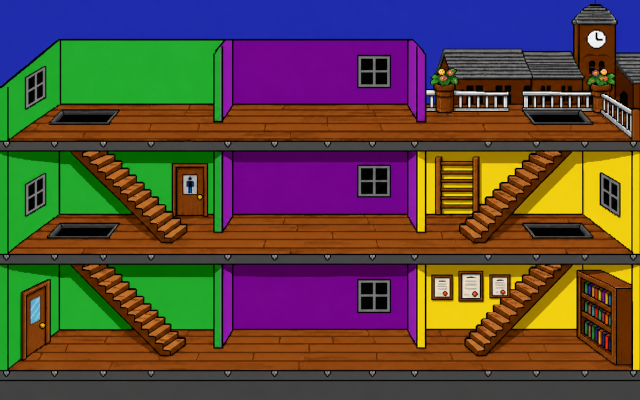
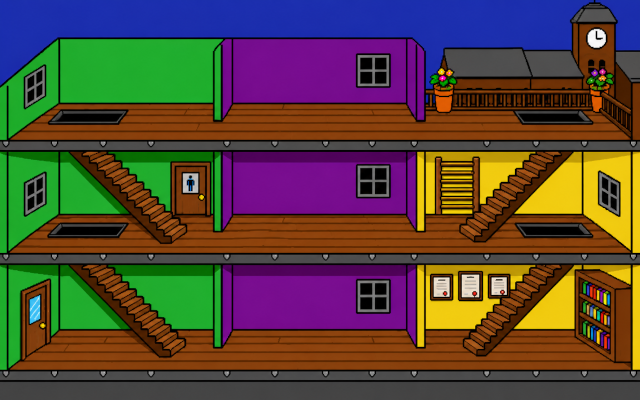
feat: polish visivo completo — outline oggetti + sfondo nuovo (v0.8.4)
Oggetti ridisegnati con bordi coerenti allo stile outline:
- Lavagne: superficie #075b07, strisce #2c832c solido
- Banchi: bordo #2c1800 (1px intorno al piano)
- Pallone L4: bordo + strisce #6b2200
- Libro L6: bordi verticali e orizzontali #3a1000
- Campanella: ridisegnata come triangolo rosso con batacchio
- Lavandino: outline #666 attorno al bacino
- Campanella (bell): triangolo rosso #cc1100 con bordo #880a00
- Secchi L8: bordo verde scuro #0d4d0d su lati e fondo (sui pixel esistenti)

Sfondo bg-640.png aggiornato: rimossi gradienti, outline architettura rafforzato
Cartaccia L5: traiettoria alzata di 5px (by-3)
Bump versione 0.8.4

diff --git a/js/draw.js b/js/draw.js
@@ -54,35 +54,39 @@ function drawBoards() {
 
 function drawBell() {
   const bx = BELL.x, by = BELL.y;
-  const sx = BELL.ringing ? Math.round(Math.sin(frame * 0.6) * 2) : 0;
-  const gold = BELL.ringing ? '#FFE000' : C.bell;
+  const sw = BELL.ringing ? Math.round(Math.sin(frame * 0.6) * 3) : 0;
+  const red  = BELL.ringing ? '#ff2200' : '#cc1100';
+  const dark = '#880a00';
 
-  ctx.fillStyle = C.dgray;
-  ctx.fillRect(bx+1, by, 2, 1);
+  // Outline pass
+  ctx.fillStyle = dark;
+  ctx.fillRect(bx+2+sw, by,   4, 1);  // top border
+  ctx.fillRect(bx+2+sw, by+1, 4, 1);  // tip outline
+  ctx.fillRect(bx+1+sw, by+2, 6, 1);  // row2 outline
+  ctx.fillRect(bx+1+sw, by+3, 6, 1);  // base outline (6px)
+  ctx.fillRect(bx+1+sw, by+4, 6, 1);  // bottom border
 
-  ctx.fillStyle = gold;
-  ctx.fillRect(bx+0+sx, by+1, 4, 1);
-  ctx.fillRect(bx-1+sx, by+2, 6, 2);
-  ctx.fillRect(bx-1+sx, by+4, 7, 1);
+  // Red fill (3 righe: 2→4→6px)
+  ctx.fillStyle = red;
+  ctx.fillRect(bx+3+sw, by+1, 2, 1);  // tip:  2 px
+  ctx.fillRect(bx+2+sw, by+2, 4, 1);  // row2: 4 px
+  ctx.fillRect(bx+2+sw, by+3, 4, 1);  // base: 4 px (stessa larghezza, no flare)
 
-  ctx.fillStyle = 'rgba(255,255,200,0.6)';
-  ctx.fillRect(bx+1+sx, by+2, 1, 1);
-
-  ctx.fillStyle = C.brown;
-  ctx.fillRect(bx+2+sx, by+5, 1, 1);
-  ctx.fillRect(bx+1+sx, by+6, 2, 1);
+  // Clapper (batacchio) — corto
+  ctx.fillStyle = dark;
+  ctx.fillRect(bx+3+sw, by+5, 2, 1);  // ball
 
   if ((allBoards || allBags || allMachines || allBall || allStudents || allBooks) && !BELL.done) {
     const pulse = 0.12 + 0.08 * Math.sin(frame * 0.15);
     ctx.fillStyle = 'rgba(255,215,0,' + pulse + ')';
-    ctx.beginPath(); ctx.arc(bx+2, by+3, 6, 0, Math.PI*2); ctx.fill();
+    ctx.beginPath(); ctx.arc(bx+4, by+2, 7, 0, Math.PI*2); ctx.fill();
   }
 
   if (BELL.ringing) {
     for (let i = 1; i <= 3; i++) {
       ctx.strokeStyle = 'rgba(255,215,0,' + (0.6 - i*0.15) + ')';
       ctx.lineWidth = 1;
-      ctx.beginPath(); ctx.arc(bx+2, by+3, 3+i*2, 0, Math.PI*2); ctx.stroke();
+      ctx.beginPath(); ctx.arc(bx+4, by+2, 4+i*3, 0, Math.PI*2); ctx.stroke();
     }
   }
 }
@@ -103,9 +107,12 @@ function drawGymBall() {
     ctx.fillStyle = C.yellow;           ctx.fillRect(bx-1, by-5, Math.round(11 * pct), 3);
   }
   // Basketball
+  ctx.fillStyle = '#6b2200';
+  ctx.fillRect(bx+1, by-1, 7, 1); ctx.fillRect(bx+1, by+9, 7, 1); // top/bottom
+  ctx.fillRect(bx-1, by+1, 1, 7); ctx.fillRect(bx+9, by+1, 1, 7); // left/right
   ctx.fillStyle = '#CC6600';
   ctx.fillRect(bx+1, by, 7, 9); ctx.fillRect(bx, by+1, 9, 7);
-  ctx.fillStyle = '#993300';
+  ctx.fillStyle = '#6b2200';
   ctx.fillRect(bx+4, by, 1, 9); ctx.fillRect(bx, by+4, 9, 1);
   ctx.fillStyle = 'rgba(255,200,100,0.5)'; ctx.fillRect(bx+1, by+1, 2, 2);
   if (!allBall) {
@@ -127,7 +134,10 @@ function drawBookcase() {
   if (bookcase.dropped) {
     // Open book lying flat on the floor (two pages + spine)
     const fx = bx + bookcase.fallDx, fy = by + bookcase.fallDy;
-    ctx.fillStyle = '#8B3000'; ctx.fillRect(fx,    fy,   18, 1); // binding top
+    ctx.fillStyle = '#3a1000';
+    ctx.fillRect(fx-1, fy, 1, 9); ctx.fillRect(fx+18, fy, 1, 9); // vertical borders
+    ctx.fillRect(fx-1, fy+9, 20, 1);                               // bottom border
+    ctx.fillStyle = '#3a1000'; ctx.fillRect(fx,    fy,   18, 1); // binding top
     ctx.fillStyle = '#F5E6C0'; ctx.fillRect(fx,    fy+1,  7, 8); // left page
     ctx.fillStyle = '#F5E6C0'; ctx.fillRect(fx+11, fy+1,  7, 8); // right page
     ctx.fillStyle = '#6B2200'; ctx.fillRect(fx+7,  fy,    4, 9); // spine
@@ -355,6 +365,12 @@ function drawBins() {
     // Body
     ctx.fillStyle = '#228B22'; ctx.fillRect(bx, by-11, 10, 11);
     ctx.fillStyle = '#1a6e1a'; ctx.fillRect(bx, by-11, 1, 11); // left shadow
+    // Dark green border (overwrite existing edge pixels, no external expansion)
+    ctx.fillStyle = '#0d4d0d';
+    ctx.fillRect(bx,   by-14, 1,  14); // left
+    ctx.fillRect(bx+9, by-14, 1,  14); // right
+    ctx.fillRect(bx,   by-1,  10,  1); // bottom
+
     // Triangle (vertex up) as recycle symbol
     ctx.fillStyle = 'rgba(255,255,255,0.75)';
     ctx.fillRect(bx+4, by-9, 2, 1); // top vertex
@@ -424,6 +440,7 @@ function drawSink() {
   ctx.fillStyle = '#aaa'; ctx.fillRect(bx+4, by-10, 1, 1);
 
   // Sink basin
+  ctx.fillStyle = '#666'; ctx.fillRect(bx-1, by-9, 14, 10);
   ctx.fillStyle = '#b0b0b0'; ctx.fillRect(bx,   by-8, 12, 8);
   ctx.fillStyle = '#d8d8d8'; ctx.fillRect(bx+1, by-7, 10, 6);
   ctx.fillStyle = '#888';    ctx.fillRect(bx+5, by-2,  2, 1); // drain

diff --git a/js/layout.js b/js/layout.js
@@ -45,9 +45,9 @@ var SHARED_LAYOUT = {
   // fdTop: px above the walking surface where the sprite starts to appear (trapdoor top edge)
   // fdBot: px below the walking surface where the sprite disappears  (floor plank underside)
   stairs: [
-    {x1:88,  y1:GY-walkOffset, x2:35,  y2:MY-walkOffset, fdTop:4, fdBot:12},  // GY→MY sx
+    {x1:90,  y1:GY-walkOffset, x2:37,  y2:MY-walkOffset, fdTop:4, fdBot:12},  // GY→MY sx
     {x1:232, y1:GY-walkOffset, x2:285, y2:MY-walkOffset, fdTop:4, fdBot:12},  // GY→MY dx
-    {x1:90,  y1:MY-walkOffset, x2:33,  y2:TY-walkOffset, fdTop:4, fdBot:12},  // MY→TY sx
+    {x1:92,  y1:MY-walkOffset, x2:35,  y2:TY-walkOffset, fdTop:4, fdBot:12},  // MY→TY sx
     {x1:232, y1:MY-walkOffset, x2:285, y2:TY-walkOffset, fdTop:4, fdBot:12},  // MY→TY dx
   ],
 
@@ -60,8 +60,8 @@ var SHARED_LAYOUT = {
   desks: [
     {x:155, y:GY-22}, {x:179, y:GY-22},
     {x:155, y:MY-22}, {x:179, y:MY-22},
-    {x:61,  y:TY-20}, {x:84,  y:TY-20}, {x:158, y:TY-20}, {x:182, y:TY-20},
+    {x:62,  y:TY-20}, {x:85,  y:TY-20}, {x:158, y:TY-20}, {x:182, y:TY-20},
   ],
 
-  bell: { x: 14, y: GY - 51 },
+  bell: { x: 13, y: GY - 51 },
 };

diff --git a/js/levels.js b/js/levels.js
@@ -112,7 +112,7 @@ var LEVELS = (function() {
       },
 
       bags: [],
-      gymBall: {x:255, y:MY-18},
+      gymBall: {x:288, y:MY-15},
 
       // PE teacher on the gym floor (MY), patrols ONLY the gym area so they are
       // always visible near the ball. Preside is reserved for L6.
@@ -194,7 +194,7 @@ var LEVELS = (function() {
 
       bags: [],
       // Sink in the leftmost room on the middle floor (bathroom)
-      sink: {x:32, y:MY-20},
+      sink: {x:32, y:MY-21},
 
       teachers: [
         {x:180, y:MY-PH-walkOffset, dir:-1, minX:10, maxX:205, speed:0.65, color:C.cyanprof, name:'Prof.Celeste', sight:90},

diff --git a/js/physics.js b/js/physics.js
@@ -452,7 +452,7 @@ function tryAction() {
     if (throwCooldown <= 0) {
       paperBalls.push({
         x: player.dir > 0 ? player.x + PW : player.x - 3,
-        y: player.y + 2,
+        y: player.y - 3,
         dir: player.dir,
         dist: 0,
       });